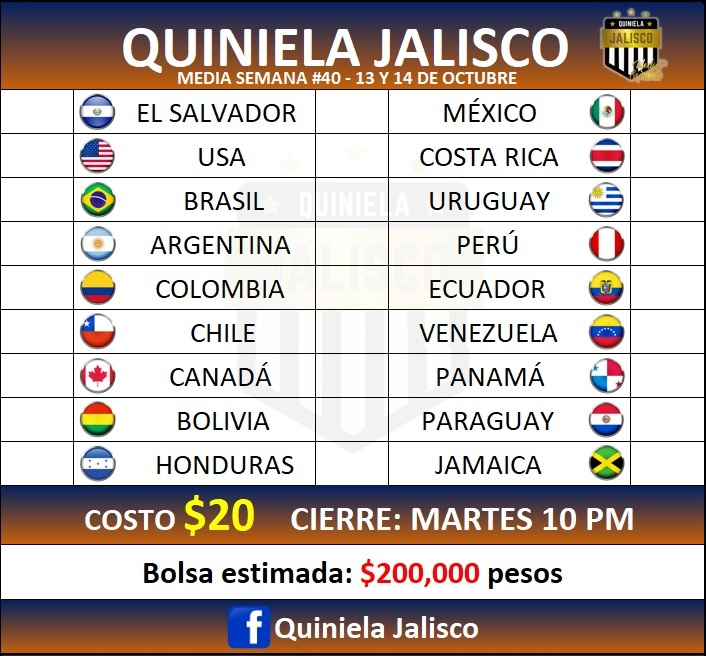
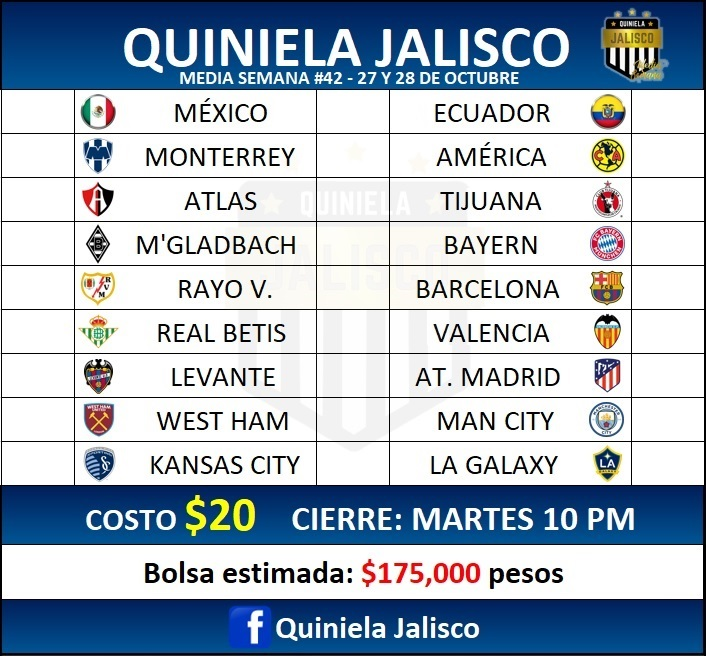
Media Semana #42

diff --git a/media.html b/media.html
@@ -2,23 +2,22 @@
 <html lang="en" translate="no">
 <head>
     <meta charset="UTF-8">
-    <meta name="google" content="notranslate">
     <meta name="viewport" content="width=device-width, initial-scale=1.0, user-scalable=no">
-    <meta name="description" content="¡Registra aquí tus quinielas! - Quiniela Liga MX">
-    <meta name="keywords" content="Quiniela, Liga MX, Apostar, Pronósticos">
-    <title>Quiniela Jalisco</title>
+    <title>Quiniela Jalisco - Media Semana</title>
     <link href="https://fonts.googleapis.com/css2?family=Roboto&display=swap" rel="stylesheet">
-    <link rel="stylesheet" href="10/styles10media.css">
+    <link rel="stylesheet" href="MediaSemana/stylesm.css">
     <link rel="icon" href="MediaSemana/iconm.jpg">
     <link rel="apple-touch-icon" href="MediaSemana/iconm.jpg">
     <link rel="shortcut icon" href="MediaSemana/iconm.jpg" type="image/x-icon">
     <script type="module" src="https://unpkg.com/ionicons@5.1.2/dist/ionicons/ionicons.esm.js"></script>
     <script nomodule="" src="https://unpkg.com/ionicons@5.1.2/dist/ionicons/ionicons.js"></script>
-    <script src="10/main10media.js"></script>
+    <script src="MediaSemana/mainm.js"></script>
 </head>
 
 <body>
-    <p id='bolsa'>¡Se reparte todo el acumulado!<br> Bolsa estimada: <span style="color:yellow">$220,000</span> pesos</p>
+    <br>
+    <br>
+    <!--<p style='color:white;text-align:center'>Bolsa estimada: <span style="color:yellow">+$200,000 pesos</span></p>-->
     <div class="quiniela" id="quiniela">
         <div class="aux"><h3 style="padding: 5px 7px" onclick="clean()"><ion-icon name="close-outline"></ion-icon></h3></div>
         <div class="partido">
@@ -84,13 +83,6 @@
             <div id="_"></div>
             <span id="V9" onclick="selection(this)"></span>
         </div>
-	<div class="partido">
-            <span id="L10" onclick="selection(this)"></span>
-            <div id="_"></div>
-            <span id="E10" onclick="selection(this)"></span>
-            <div id="_"></div>
-            <span id="V10" onclick="selection(this)"></span>
-        </div>
         <h1 id="text"></h1>
     </div>
     <table class="botonera">
@@ -126,7 +118,7 @@
                 <td style="width: 23%"></td>
             </tr>
         </table>
-        <!--<script src="https://unpkg.com/ionicons@5.1.2/dist/ionicons.js"></script>-->
+        <script src="https://unpkg.com/ionicons@5.1.2/dist/ionicons.js"></script>
 
         <br><br>
 
@@ -138,8 +130,8 @@
     </div>
     <br>
     <!--<p id="display"></p>-->
-    <div id="divaux" translate="no">
-        <table id="display">
+    <div id="divaux">
+        <table id="display" translate="no">
         </table>
     </div>
     <!--<button id="undo" onclick="remove()"><ion-icon name="arrow-undo-outline"></ion-icon></button>-->

diff --git a/MediaSemana/stylesm.css b/MediaSemana/stylesm.css
@@ -89,8 +89,8 @@ h1{
     margin-top: 8%;
     border: solid 1px black;
     border-radius: 0 0 14px 14px;
-    background: -webkit-linear-gradient(0.5turn, rgb(191,95,9)  ,rgb(10,35,91) 80%);
-    background: linear-gradient(0.5turn, rgb(191,95,9)  ,rgb(10,35,91) 80%);
+    background: -webkit-linear-gradient(0.5turn, rgb(3,81,143)  ,rgb(0,0,0) 80%);
+    background: linear-gradient(0.5turn, rgb(3,81,143)  ,rgb(0,0,0) 80%);
     font-size: x-large;
     text-shadow: 3px 3px 3px black;
 }
